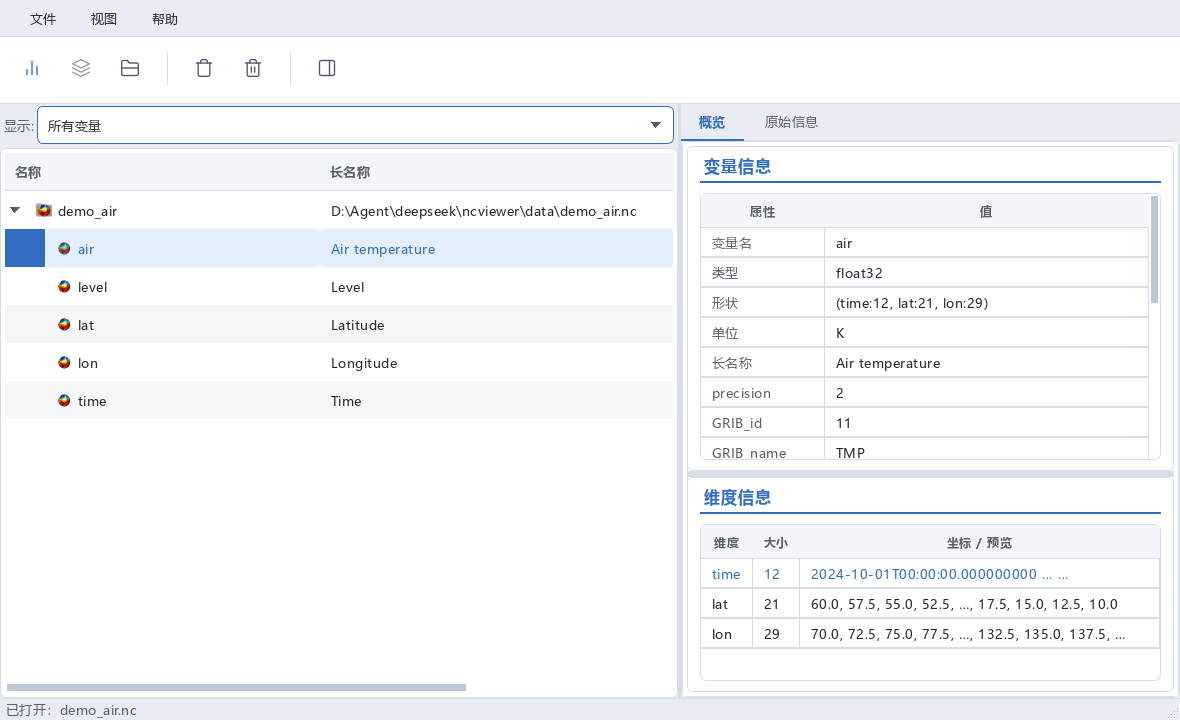
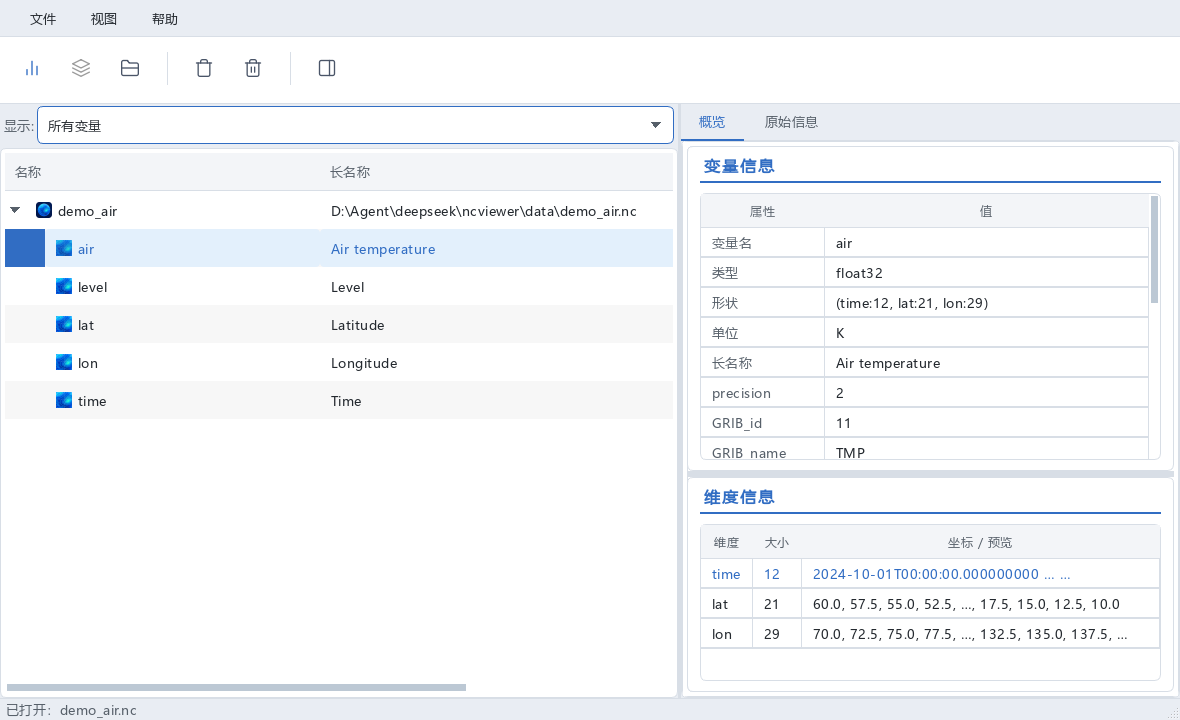
树图标换成 AI 地球图标：数据集=完整卡片，变量=中心裁切地球主体

diff --git a/ui/icons.py b/ui/icons.py
@@ -174,3 +174,35 @@ def app_icon(size: int = 64) -> QIcon:
                            Qt.TransformationMode.SmoothTransformation)
         return QIcon(pm)
     return QIcon()
+
+
+def _icon_source_path() -> str:
+    """AI 生成的应用图标源图路径（兼容打包环境）。"""
+    import sys as _sys
+    res_dir = os.path.join(os.path.dirname(os.path.abspath(__file__)), "resources")
+    if getattr(_sys, "frozen", False) and hasattr(_sys, "_MEIPASS"):
+        res_dir = os.path.join(_sys._MEIPASS, "ncviewer", "ui", "resources")
+    return os.path.join(res_dir, "ncviewer_icon.png")
+
+
+def tree_icon(kind: str, size: int = 16) -> QIcon:
+    """数据树节点图标（从 AI 地球图标裁切，风格统一）。
+
+    kind:
+      - "dataset"：完整图标（圆角卡片 + 地球）
+      - "variable"：中心裁切地球主体（去掉卡片边缘背景，小图近似透明感）
+    """
+    png = _icon_source_path()
+    if not os.path.exists(png):
+        return QIcon()
+    pm = QPixmap(png)  # 1024x1024
+    src = min(pm.width(), pm.height())
+    if kind == "variable":
+        # 中心 55% 区域：框住地球主体，去掉四边卡片/背景
+        off = int(src * 0.225)
+        pm = pm.copy(off, off, int(src * 0.55), int(src * 0.55))
+    else:  # dataset：完整图标
+        pm = pm.copy(0, 0, src, src)
+    pm = pm.scaled(size, size, Qt.AspectRatioMode.KeepAspectRatio,
+                   Qt.TransformationMode.SmoothTransformation)
+    return QIcon(pm)

diff --git a/ui/datatree.py b/ui/datatree.py
@@ -7,7 +7,7 @@ from __future__ import annotations
 from PySide6.QtCore import Qt
 from PySide6.QtWidgets import QTreeWidget, QTreeWidgetItem
 
-from ncviewer.ui.icons import panoply_icon
+from ncviewer.ui.icons import tree_icon
 
 _USER_ROLE = int(Qt.ItemDataRole.UserRole)
 
@@ -64,7 +64,7 @@ def build_tree(tree: QTreeWidget, ds, path: str, variables: list[dict],
 
     name = ds.attrs.get("title") or _stem(path)
     ds_item = QTreeWidgetItem(tree, [name, str(path), "数据集"])
-    ds_item.setIcon(0, panoply_icon("folder", 16))
+    ds_item.setIcon(0, tree_icon("dataset", 16))
     ds_item.setData(0, _USER_ROLE, {"kind": "dataset", "path": str(path)})
     ds_item.setToolTip(1, str(path))
 
@@ -72,7 +72,7 @@ def build_tree(tree: QTreeWidget, ds, path: str, variables: list[dict],
         var_name = var["name"]
         long_name = var.get("long_name") or ""
         vi = QTreeWidgetItem(ds_item, [var_name, str(long_name), _var_type_text(var, ds)])
-        vi.setIcon(0, panoply_icon("leaf", 16))
+        vi.setIcon(0, tree_icon("variable", 16))
         vi.setData(0, _USER_ROLE, {"kind": "variable", "dataset": str(path), "var_name": var_name})
         vi.setToolTip(0, var_name)
         if long_name:
